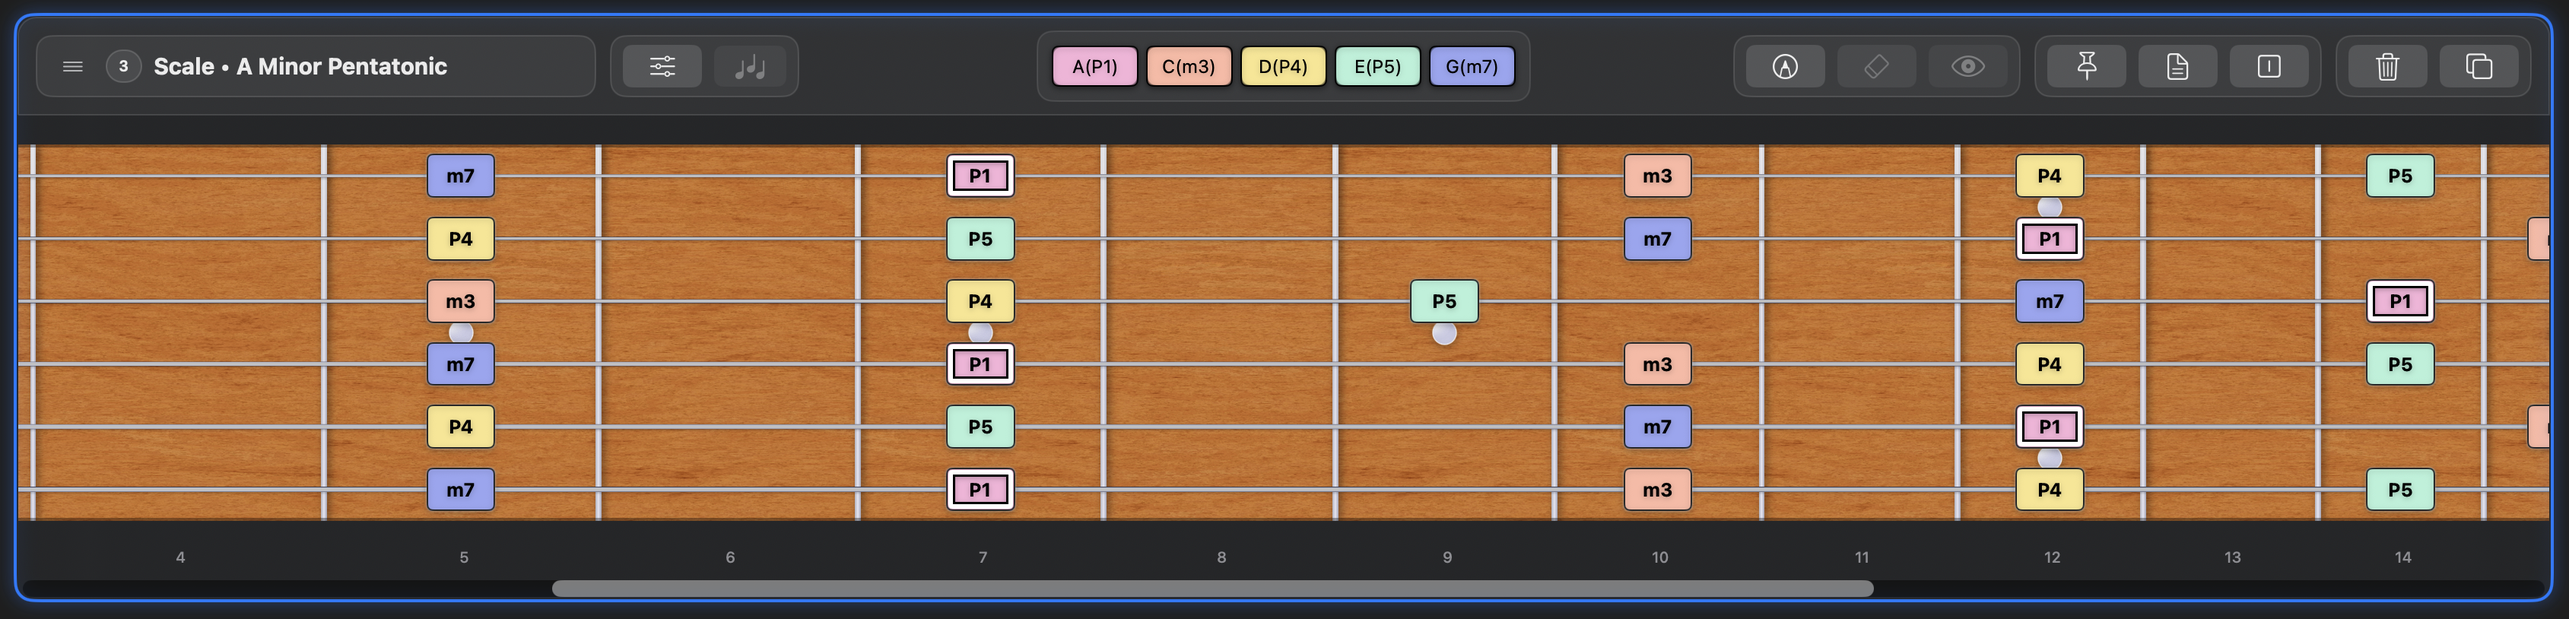
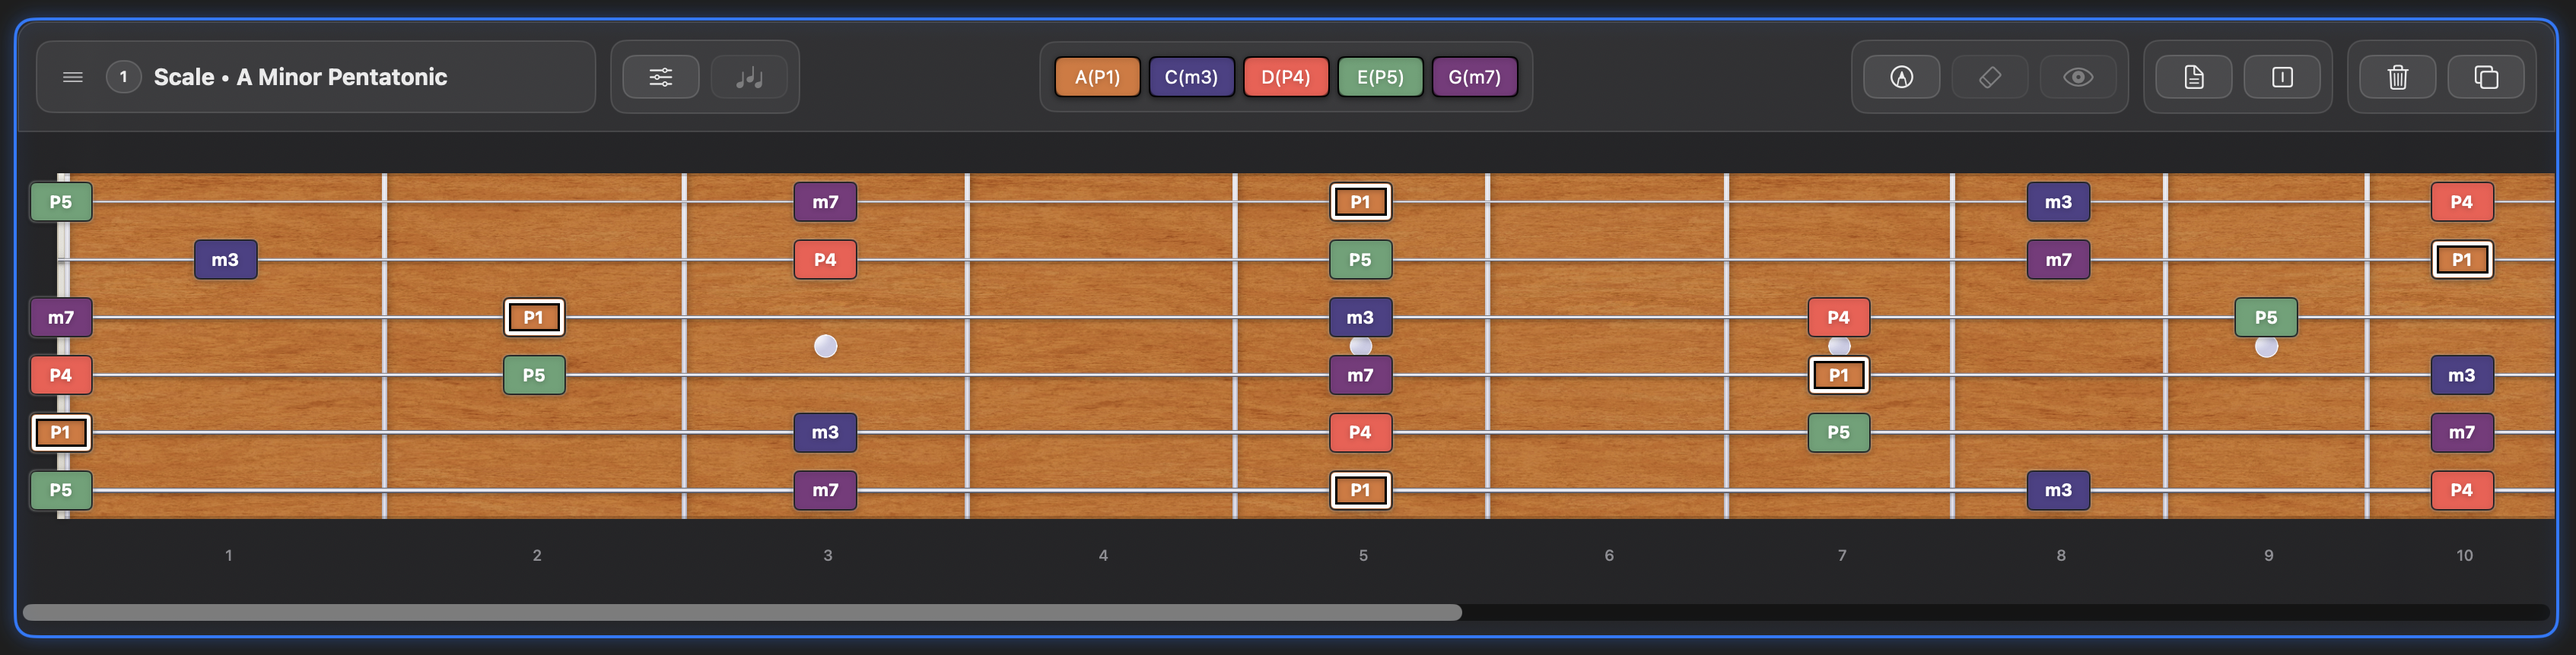
pin button removed

diff --git a/help/fretboard-panels-overview.html b/help/fretboard-panels-overview.html
@@ -305,22 +305,9 @@
 
             </li>
 
-            <li>
-        <h2 style="margin-top: 0;">Fretboard controls - pin fretboard</h2>
-              The fourth button is the pin fretboard control. 
-When a document is reloaded, fretboards will display from the nut onwards by default.
-If you use the Pin button on a fretboard, when the document is saved and reloaded,
-that fretboard will return to the last pinned position. Particularly useful when you have
-marked notes further down which are ordinarily not in view when the fretboard starts at
-the nut again. If a fretboard is scrolled once pinned, the pin is cancelled, and when the
-document window is resized or the document zoom level is changed, all pins are cancelled,
-as those actions change what may or may not be shown in the fretboards.
-            <p></p>
-            </li>
-
         <li>
         <h2 style="margin-top: 0;">Fretboard controls - notepad</h2>
-              The fifth button is the notepad control. A new fretboard starts with an empty notepad, so the button appears plain.
+              The fourth button is the notepad control. A new fretboard starts with an empty notepad, so the button appears plain.
               Clicking it toggles the notepad’s visibility. Once the notepad contains text, the button turns yellow to remind you that notes are present.
               Notepads are saved with their fretboards in the Frettly document.
 
@@ -340,7 +327,7 @@ as those actions change what may or may not be shown in the fretboards.
 
             <li>
         <h2 style="margin-top: 0;">Fretboard controls - labelling mode</h2>
-              The sixth button toggles between viewing notes and viewing intervals.
+              The fifth button toggles between viewing notes and viewing intervals.
               By default, fretboards show note labels, and the tooltip shows the corresponding interval.
               When you switch to interval labels, the tooltip text changes accordingly.
 
@@ -371,20 +358,17 @@ as those actions change what may or may not be shown in the fretboards.
 
             <li>
         <h2 style="margin-top: 0;">Fretboard controls - delete fretboard</h2>
-              The seventh button is the delete fretboard control. The deletion can be undone with Undo (⌘Z).
+              The sixth button is the delete fretboard control. The deletion can be undone with Undo (⌘Z).
             </li>
 
             <li>
         <h2 style="margin-top: 0;">Fretboard controls - duplicate fretboard</h2>
-              The eighth button duplicates the current fretboard, inserting the copy below the original.
+              The seventh button duplicates the current fretboard, inserting the copy below the original.
               Only the fretboard’s type, root, and pattern are duplicated — notepad content and marks are not.
             </li>
           </ul>
       </section>
 
-      <footer>
-        &copy; <span id="year"></span> Frettly. Site content and Frettly macOS application by Efford Studio Limited.
-      </footer>
       <!-- Shared lightbox overlay -->
       <div id="lightbox" class="lightbox" aria-hidden="true">
         <div class="lightbox-inner">
